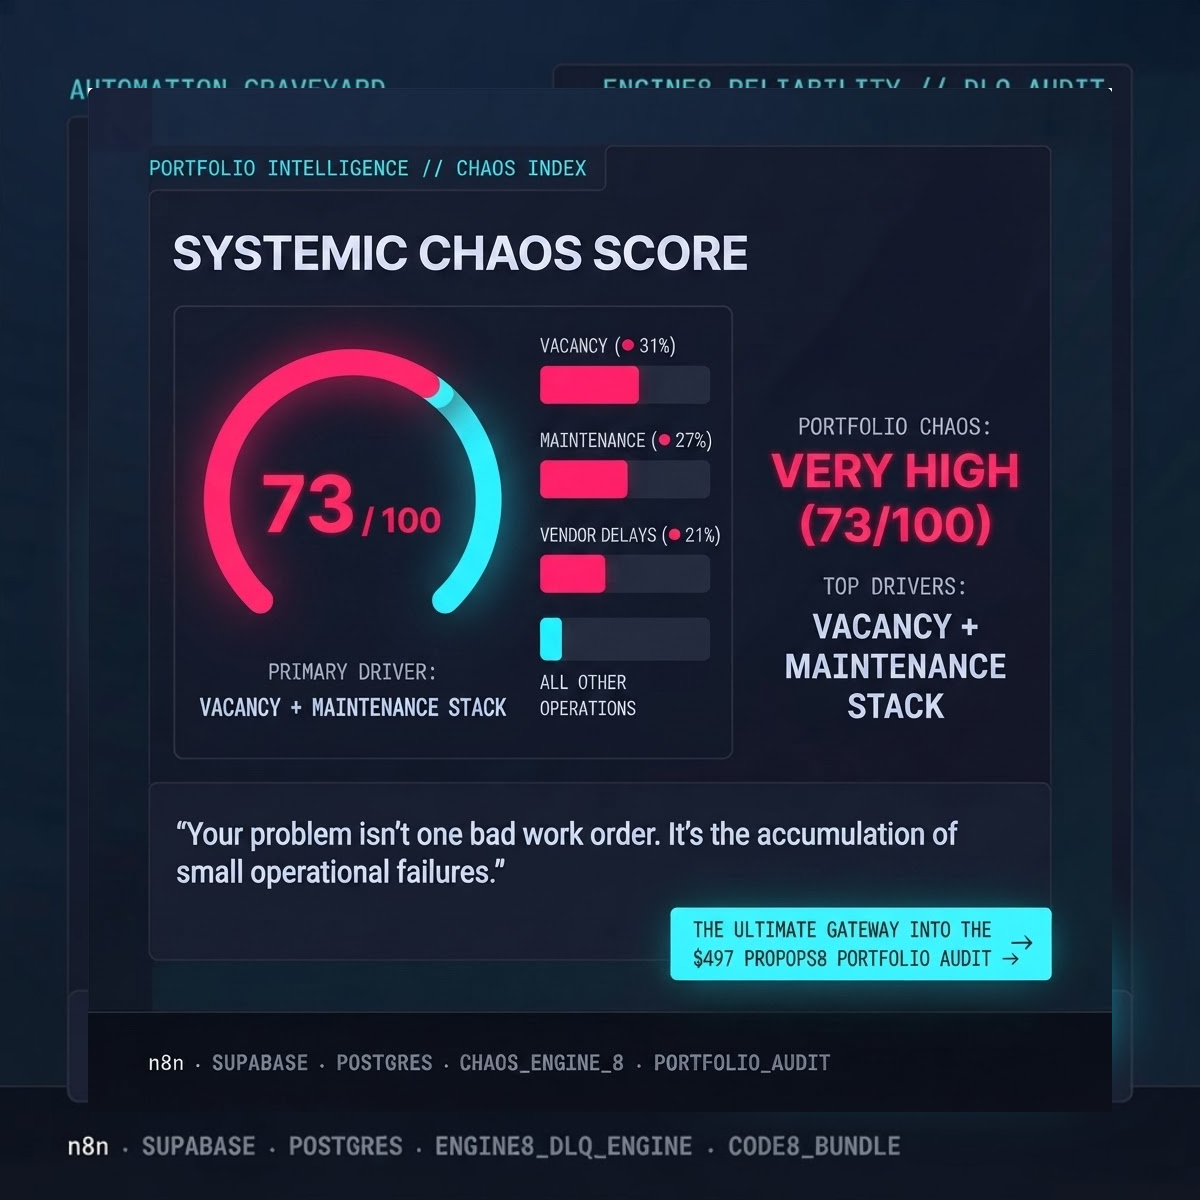
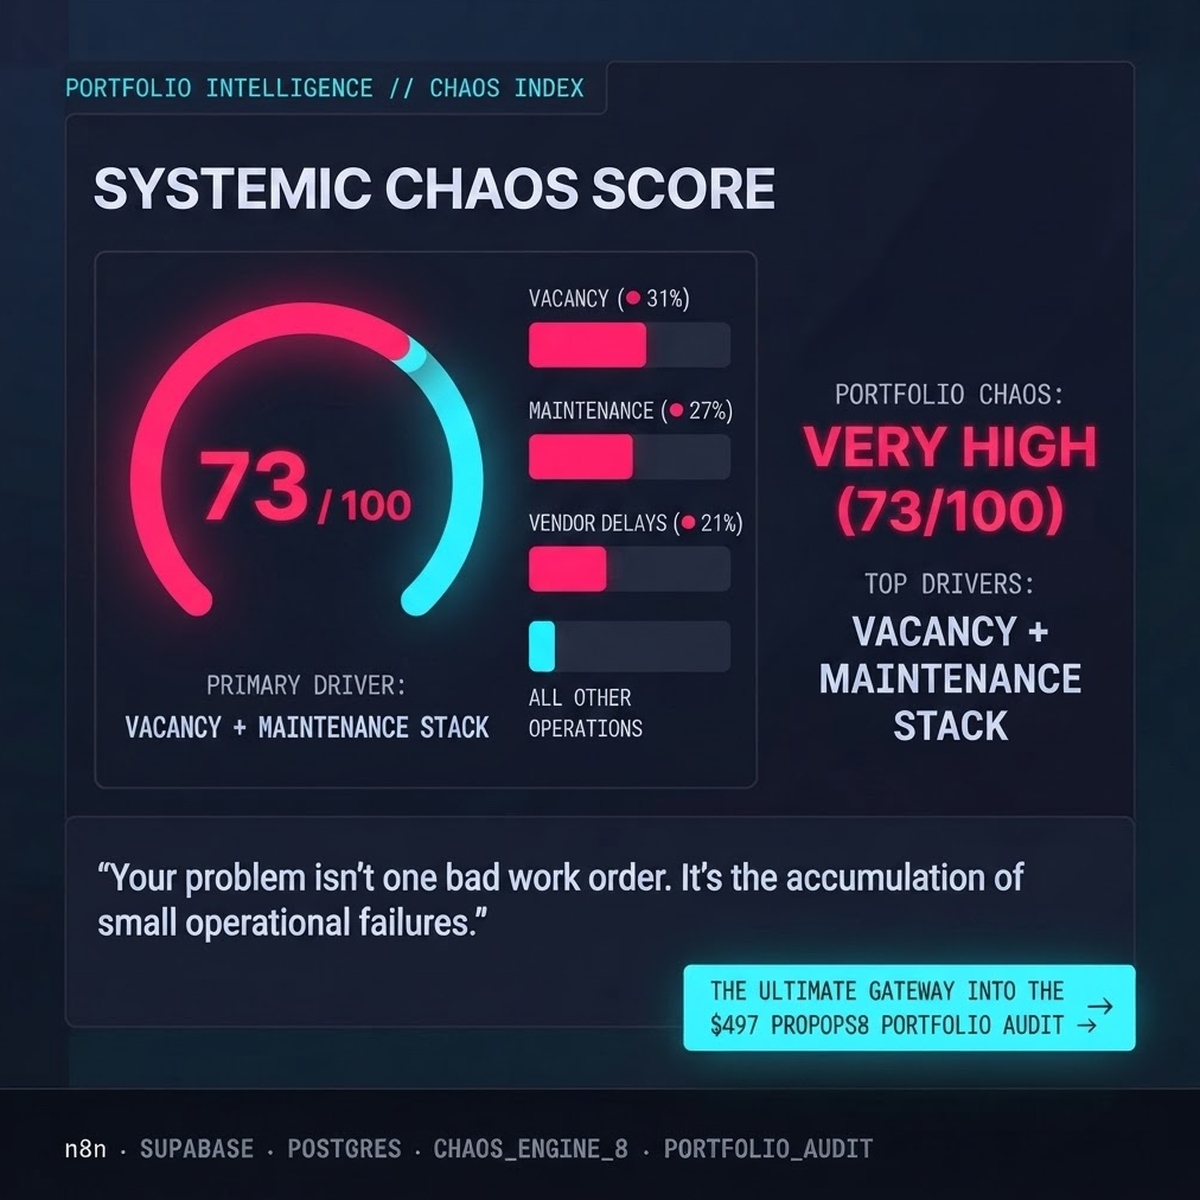
Fix Plate8 typing, add Mate8 AI vs AI, admin nav, clean Chaos widget
- Plate8: ignore resize while an input is focused. The iPhone keyboard fires
  a resize, which rebuilt the page and replaced the word field, closing the
  keyboard so nothing could be typed. Refocus after a same-plate rebuild.
- Mate8: add "Watch AI vs AI" (engine plays both sides, pause/resume, new
  game restarts, 300 half-move cap, auto-pauses off the Mate page).
- Plate8 header crumb links back to /admin.
- Admin: shared nav bar on every /admin page (home, review, LVN, Plate8,
  recert, BRRRR, infographics, public site, sign out). Launchpad gains
  Ledger Review and public-site tiles. Login always lands on /admin.
- Footer links to /admin.
- Operations Chaos Index widget: crop the nested screenshot out of the PNGs
  and bump the image query so cached copies refresh.

Claude-Session: https://claude.ai/code/session_01XaXRJE5H9eTMH5iJqjHb1M

diff --git a/public/plate/index.html b/public/plate/index.html
@@ -806,6 +806,9 @@ select.field{appearance:none;background-image:linear-gradient(45deg,transparent 
   .mcard img{width:132px}
 }
 @media(prefers-reduced-motion:reduce){*{transition:none!important;animation:none!important}}
+
+.chip[hidden]{display:none}
+.chip[disabled]{opacity:.4;pointer-events:none}
 </style>
 </head>
 <body>
@@ -813,7 +816,7 @@ select.field{appearance:none;background-image:linear-gradient(45deg,transparent 
 
   <header>
     <button class="mark" id="homeMark" aria-label="Plate8 home">Plate<b>8</b></button>
-    <div class="crumb">propops8 / <b id="modName">home</b></div>
+    <div class="crumb"><a href="/admin" target="_top" style="color:inherit;text-decoration:none" title="Back to PropOps8 admin">propops8</a> / <b id="modName">home</b></div>
     <div class="tbar">
       <span class="live" id="liveInd" title="Instruments producing right now"><i></i><span>idle</span></span>
       <svg class="tse" id="tsEmb" viewBox="0 0 24 24" width="22" height="22" role="img" aria-label="Time spent per instrument"></svg>
@@ -880,6 +883,8 @@ select.field{appearance:none;background-image:linear-gradient(45deg,transparent 
               <button class="chip" data-d="3" aria-pressed="true">Steady</button>
               <button class="chip" data-d="4">Sharp</button>
               <button class="chip" id="bBlitz">Blitz 5′</button>
+              <button class="chip" id="bWatch" aria-pressed="false" title="Watch the engine play both sides">Watch AI vs AI</button>
+              <button class="chip" id="bPause" hidden>Pause</button>
               <button class="chip" id="bGeoT" aria-pressed="true" title="Draw the geometry of influence on the board">Geometry</button>
             </div>
             <div class="row" style="gap:5px">
@@ -1473,7 +1478,14 @@ function fitCanvas(c){
   const x=c.getContext('2d'); x.setTransform(d,0,0,d,0,0);
   return {x,w,h};
 }
-addEventListener('resize',()=>ARC.safe(()=>ARC.mods[ARC.cur]?.enter?.(),'resize'));
+addEventListener('resize',()=>{
+  /* On a phone the soft keyboard fires a resize the moment a field is tapped.
+     Rebuilding the page then replaces the field itself, so the keyboard closes
+     and nothing can be typed. While a field has focus, leave the DOM alone. */
+  const a=document.activeElement;
+  if(a&&/^(INPUT|TEXTAREA|SELECT)$/.test(a.tagName))return;
+  ARC.safe(()=>ARC.mods[ARC.cur]?.enter?.(),'resize');
+});
 $$('label.btn').forEach(l=>l.addEventListener('keydown',e=>{
   if(e.key==='Enter'||e.key===' '){e.preventDefault();$('#'+l.htmlFor).click()}
 }));
@@ -2952,19 +2964,23 @@ function drawGuides(tg,moving){
   out+=`<circle cx="${cx}" cy="${cy}" r="4.4" ${D}/>`;
   g.innerHTML=out;
 }
-function done(r){over=true;games++;rec[r]++;persist();
+let watch=false, watchPaused=false, watchTimer=0;
+function done(r){over=true;
+  if(watch){ARC.log('mate','AI vs AI · '+({w:'Light won',l:'Dark won',d:'Drawn'})[r]+' in '+Math.ceil(hist.length/2)+' moves · '+({2:'Casual',3:'Steady',4:'Sharp'})[depth]);return}
+  games++;rec[r]++;persist();
   ARC.log('mate',({w:'You won',l:'Engine won',d:'Drawn'})[r]+' in '+Math.ceil(hist.length/2)+' moves · '+
     ({2:'Casual',3:'Steady',4:'Sharp'})[depth])}
 const say=t=>$('#bStat').textContent=t;
 function finish(){
   const ms=legal(S);
   if(ms.length){if(S.hm>=100&&!over){say('Draw — fifty-move rule.');done('d');return true}return false}
-  if(inCheck(S,S.turn)){const win=S.turn==='b';say(win?'Checkmate. You win.':'Checkmate. Engine wins.');done(win?'w':'l')}
+  if(inCheck(S,S.turn)){const win=S.turn==='b';
+    say(watch?(win?'Checkmate. Light wins.':'Checkmate. Dark wins.'):(win?'Checkmate. You win.':'Checkmate. Engine wins.'));done(win?'w':'l')}
   else{say('Stalemate. Draw.');done('d')}
   return true}
 function apply(m){hist.push({S,lastM});S=make(S,m);lastM=m;sel=null;curve.push(evaluate(S));if(curve.length>120)curve.shift();paint()}
 bEl.addEventListener('click',e=>{
-  const t=e.target.closest('.sq'); if(!t||over||think||S.turn!=='w')return;
+  const t=e.target.closest('.sq'); if(watch||!t||over||think||S.turn!=='w')return;
   const i=+t.dataset.i;
   if(sel!=null){const m=legal(S).find(x=>x.f===sel&&x.t===i);
     if(m){apply(m);if(finish())return;say('Engine thinking…');think=true;setTimeout(ai,40);return}}
@@ -2996,7 +3012,41 @@ function swing(){
 }
 $$('.chip[data-d]').forEach(b=>b.onclick=()=>{depth=+b.dataset.d;
   $$('.chip[data-d]').forEach(x=>x.setAttribute('aria-pressed',String(x===b)))});
-$('#bNew').onclick=()=>{S=startPos();hist=[];sel=null;lastM=null;over=false;curve=[0];clkReset();say('Your move. You play the light pieces.');paint();
+/* Watch mode: the same engine plays both sides, one move at a time, so the
+   page can repaint between moves. Depth chip sets strength for both. Paused
+   automatically when you leave the Mate page. Capped at 300 half-moves. */
+function watchStep(){
+  clearTimeout(watchTimer);
+  if(!watch||over||watchPaused)return;
+  if(ARC.cur!=='mate'){watchTimer=setTimeout(watchStep,1000);return}
+  think=true; const m=best(S,depth); think=false;
+  if(!watch)return;
+  if(!m){finish();return}
+  apply(m);
+  if(finish())return;
+  if(hist.length>=300){say('Draw — move limit reached.');done('d');return}
+  say((inCheck(S,S.turn)?'Check. ':'')+(S.turn==='w'?'Light':'Dark')+' to move · move '+(Math.floor(hist.length/2)+1)+' · '+({2:'Casual',3:'Steady',4:'Sharp'})[depth]);
+  watchTimer=setTimeout(watchStep,650);
+}
+function watchStart(){
+  S=startPos();hist=[];sel=null;lastM=null;over=false;curve=[0];watchPaused=false;
+  $('#bPause').textContent='Pause'; say('AI vs AI — light moves first.'); paint();
+  watchTimer=setTimeout(watchStep,500);
+}
+$('#bWatch').onclick=()=>{
+  watch=!watch; clearTimeout(watchTimer);
+  $('#bWatch').setAttribute('aria-pressed',String(watch));
+  $('#bPause').hidden=!watch;
+  if(watch){ if(clk.blitz)$('#bBlitz').click(); $('#bBlitz').disabled=true; $('#bUndo').disabled=true; watchStart(); ARC.log('mate','AI vs AI · started · '+({2:'Casual',3:'Steady',4:'Sharp'})[depth]) }
+  else{ $('#bBlitz').disabled=false; $('#bUndo').disabled=false; S=startPos();hist=[];sel=null;lastM=null;over=false;curve=[0];say('Your move. You play the light pieces.');paint() }
+};
+$('#bPause').onclick=()=>{
+  watchPaused=!watchPaused; $('#bPause').textContent=watchPaused?'Resume':'Pause';
+  if(watchPaused)say('Paused.'); else watchStep();
+};
+$('#bNew').onclick=()=>{
+  if(watch){watchStart();return}
+  S=startPos();hist=[];sel=null;lastM=null;over=false;curve=[0];clkReset();say('Your move. You play the light pieces.');paint();
   ARC.log('mate','New game · '+(({2:'Casual',3:'Steady',4:'Sharp'})[depth]||'Steady'))};
 /* a position is worth sharing with the geometry read attached — the two
    numbers are what the page is actually for. */
@@ -3009,7 +3059,7 @@ $('#bShare').onclick=()=>{
            (mb?' · favours '+mb.favours:'') : 'position shared')+
       '\n'+fen(S)});
 };
-$('#bUndo').onclick=()=>{if(think||hist.length<2)return;hist.pop();const h=hist.pop();
+$('#bUndo').onclick=()=>{if(watch||think||hist.length<2)return;hist.pop();const h=hist.pop();
   S=h.S;lastM=h.lastM;sel=null;over=false;curve.splice(-2);say('Taken back. Your move.');paint()};
 
 /* Blitz: one wall-clock reading per frame, never an interval count.
@@ -4737,7 +4787,7 @@ function render(){                       // full rebuild: new plate or rule chan
   /* enter() calls this, and the kernel calls enter() on every resize — which
      on a phone means the soft keyboard appearing erased the word you were
      typing. Carry the entry across a rebuild of the same plate. */
-  const prevIn=$('#pIn'), carry=(prevIn&&renderedFor===plate)?prevIn.value:'';
+  const prevIn=$('#pIn'), carry=(prevIn&&renderedFor===plate)?prevIn.value:'', hadFocus=!!prevIn&&document.activeElement===prevIn;
   renderedFor=plate;
   $('#pPlayPane').innerHTML=`
     <div class="chips" style="margin-bottom:7px">
@@ -4776,6 +4826,7 @@ function render(){                       // full rebuild: new plate or rule chan
     <div id="pHist"></div>`;
   const i=$('#pIn');
   if(carry)i.value=carry;
+  if(hadFocus)i.focus();
   i.oninput=live; i.onkeydown=e=>{if(e.key==='Enter'){e.preventDefault();submit()}};
   $('#pGo').onclick=submit; $('#pSkip').onclick=next;
   tilt();

diff --git a/components/admin/AdminNav.tsx b/components/admin/AdminNav.tsx
@@ -1,0 +1,98 @@
+"use client";
+
+/**
+ * components/admin/AdminNav.tsx
+ * ----------------------------------------------------------------
+ * One bar under the site header on every /admin page (login excepted),
+ * so no admin screen is a dead end: Review, LVN, Plate8, Recert,
+ * BRRRR, Infographics and the public site are all one tap away, and
+ * "Admin" always goes back to the launchpad.
+ */
+
+import Link from "next/link";
+import { usePathname, useRouter } from "next/navigation";
+
+const LINKS = [
+  { href: "/admin", label: "Admin home", exact: true },
+  { href: "/admin/review", label: "Review" },
+  { href: "/admin/lvn", label: "LVN" },
+  { href: "/plate", label: "Plate8" },
+  { href: "/tools/recert", label: "Recert" },
+  { href: "/brrrr", label: "BRRRR" },
+  { href: "/infographics", label: "Infographics" },
+  { href: "/", label: "Public site", exact: true },
+];
+
+export default function AdminNav() {
+  const pathname = usePathname() ?? "";
+  const router = useRouter();
+  if (pathname.startsWith("/admin/login")) return null;
+
+  async function logout() {
+    await fetch("/api/admin/logout", { method: "POST" }).catch(() => {});
+    router.push("/admin/login");
+    router.refresh();
+  }
+
+  return (
+    <nav
+      aria-label="Admin"
+      style={{
+        position: "sticky",
+        top: 56,
+        zIndex: 40,
+        display: "flex",
+        alignItems: "center",
+        gap: 6,
+        padding: "8px 16px",
+        overflowX: "auto",
+        background: "#0b1220",
+        borderBottom: "1px solid rgba(255,255,255,0.07)",
+        fontFamily: "ui-monospace, Menlo, monospace",
+        fontSize: 11,
+        letterSpacing: "0.08em",
+        textTransform: "uppercase",
+        whiteSpace: "nowrap",
+      }}
+    >
+      {LINKS.map((l) => {
+        const active = l.exact
+          ? pathname === l.href
+          : pathname === l.href || pathname.startsWith(l.href + "/");
+        return (
+          <Link
+            key={l.href}
+            href={l.href}
+            aria-current={active ? "page" : undefined}
+            style={{
+              padding: "6px 10px",
+              borderRadius: 8,
+              textDecoration: "none",
+              color: active ? "#03edff" : "rgba(255,255,255,0.65)",
+              background: active ? "rgba(3,237,255,0.10)" : "transparent",
+            }}
+          >
+            {l.label}
+          </Link>
+        );
+      })}
+      <button
+        onClick={logout}
+        style={{
+          marginLeft: "auto",
+          padding: "6px 10px",
+          borderRadius: 8,
+          border: "1px solid rgba(255,255,255,0.14)",
+          background: "transparent",
+          color: "rgba(255,255,255,0.65)",
+          font: "inherit",
+          letterSpacing: "inherit",
+          textTransform: "inherit",
+          cursor: "pointer",
+        }}
+      >
+        Sign out
+      </button>
+    </nav>
+  );
+}

diff --git a/app/admin/login/page.tsx b/app/admin/login/page.tsx
@@ -1,11 +1,10 @@
 "use client";
 
 import { useState, Suspense } from "react";
-import { useRouter, useSearchParams } from "next/navigation";
+import { useRouter } from "next/navigation";
 
 function LoginForm() {
   const router = useRouter();
-  const params = useSearchParams();
   const [password, setPassword] = useState("");
   const [error, setError] = useState<string | null>(null);
   const [loading, setLoading] = useState(false);
@@ -26,15 +25,10 @@ function LoginForm() {
         setLoading(false);
         return;
       }
-      // Default is the launchpad, not the review tool. `from` only ever
-      // comes from our own proxy.ts sending you back where you started, but
-      // it's a query param and therefore attacker-controllable -- someone
-      // could craft /admin/login?from=https://evil.example and ride a real
-      // login to an external site. Only honor it when it points back into
-      // /admin; anything else (another origin, a protocol-relative //host,
-      // no from at all) falls back to the launchpad.
-      const from = params.get("from");
-      router.push(from && from.startsWith("/admin") ? from : "/admin");
+      // Always land on the admin launchpad; every other admin page is a
+      // link away from there. (Previously honored ?from=, which dropped
+      // you on whichever page the browser last remembered.)
+      router.push("/admin");
       router.refresh();
     } catch {
       setError("Network error -- try again.");

diff --git a/components/admin/AdminLaunchpad.tsx b/components/admin/AdminLaunchpad.tsx
@@ -3,12 +3,16 @@ import s from "./AdminLaunchpad.module.css";
 
 /* One-row launcher for the /admin page. Add or remove tiles here. */
 const TILES = [
-  { href: "/plate", title: "Plate", sub: "Entertainment rig · 6 pages", accent: "#E92AD6" },
+  { href: "/admin/review", title: "Ledger Review", sub: "Review findings · approve · send", accent: "#03edff" },
+  { href: "/plate", title: "Plate8", sub: "Entertainment rig · 6 pages", accent: "#E92AD6" },
   { href: "/tools/recert", title: "Recert Flow Engine", sub: "AR form filler", accent: "#3DDCE8" },
   { href: "/admin/lvn", title: "LVN Network", sub: "Eon · Lumen · Node 03", accent: "#4FD69C" },
   { href: "/brrrr", title: "BRRRR / AIM-B5R", sub: "Phase 0 · Screen", accent: "#F2A33A" },
   { href: "/infographics", title: "Infographics", sub: "Boards + visuals", accent: "#8B7CF6" },
   { href: "/audit", title: "Audit (public)", sub: "What clients see", accent: "#A3A9B8" },
+  { href: "/ingest", title: "Ledger Screening (public)", sub: "Free CSV check", accent: "#A3A9B8" },
+  { href: "/tools/vacancy-calculator", title: "Vacancy Calculator (public)", sub: "Free diagnostic", accent: "#A3A9B8" },
+  { href: "/", title: "Public site", sub: "Home page", accent: "#A3A9B8" },
 ];
 
 export default function AdminLaunchpad() {

diff --git a/app/page.tsx b/app/page.tsx
@@ -271,7 +271,7 @@ export default function LandingPage() {
               style={{ ...cardStyle, textDecoration: 'none' }}
             >
               <img
-                src={`/widgets/sm/${d.slug}.png`}
+                src={`/widgets/sm/${d.slug}.png?v=2`}
                 alt={`${d.name} diagnostic card`}
                 width={600}
                 height={600}

diff --git a/components/SiteFooter.tsx b/components/SiteFooter.tsx
@@ -30,6 +30,7 @@ const NAV = [
   { href: '/ingest', label: 'Ledger screening' },
   { href: '/tools/recert', label: 'Recert flow engine' },
   { href: '/audit', label: 'Operations audit' },
+  { href: '/admin', label: 'Admin' },
 ];
 
 const LEGAL = [

diff --git a/app/admin/layout.tsx b/app/admin/layout.tsx
@@ -1,0 +1,10 @@
+import AdminNav from "@/components/admin/AdminNav";
+
+export default function AdminLayout({ children }: { children: React.ReactNode }) {
+  return (
+    <>
+      <AdminNav />
+      {children}
+    </>
+  );
+}
